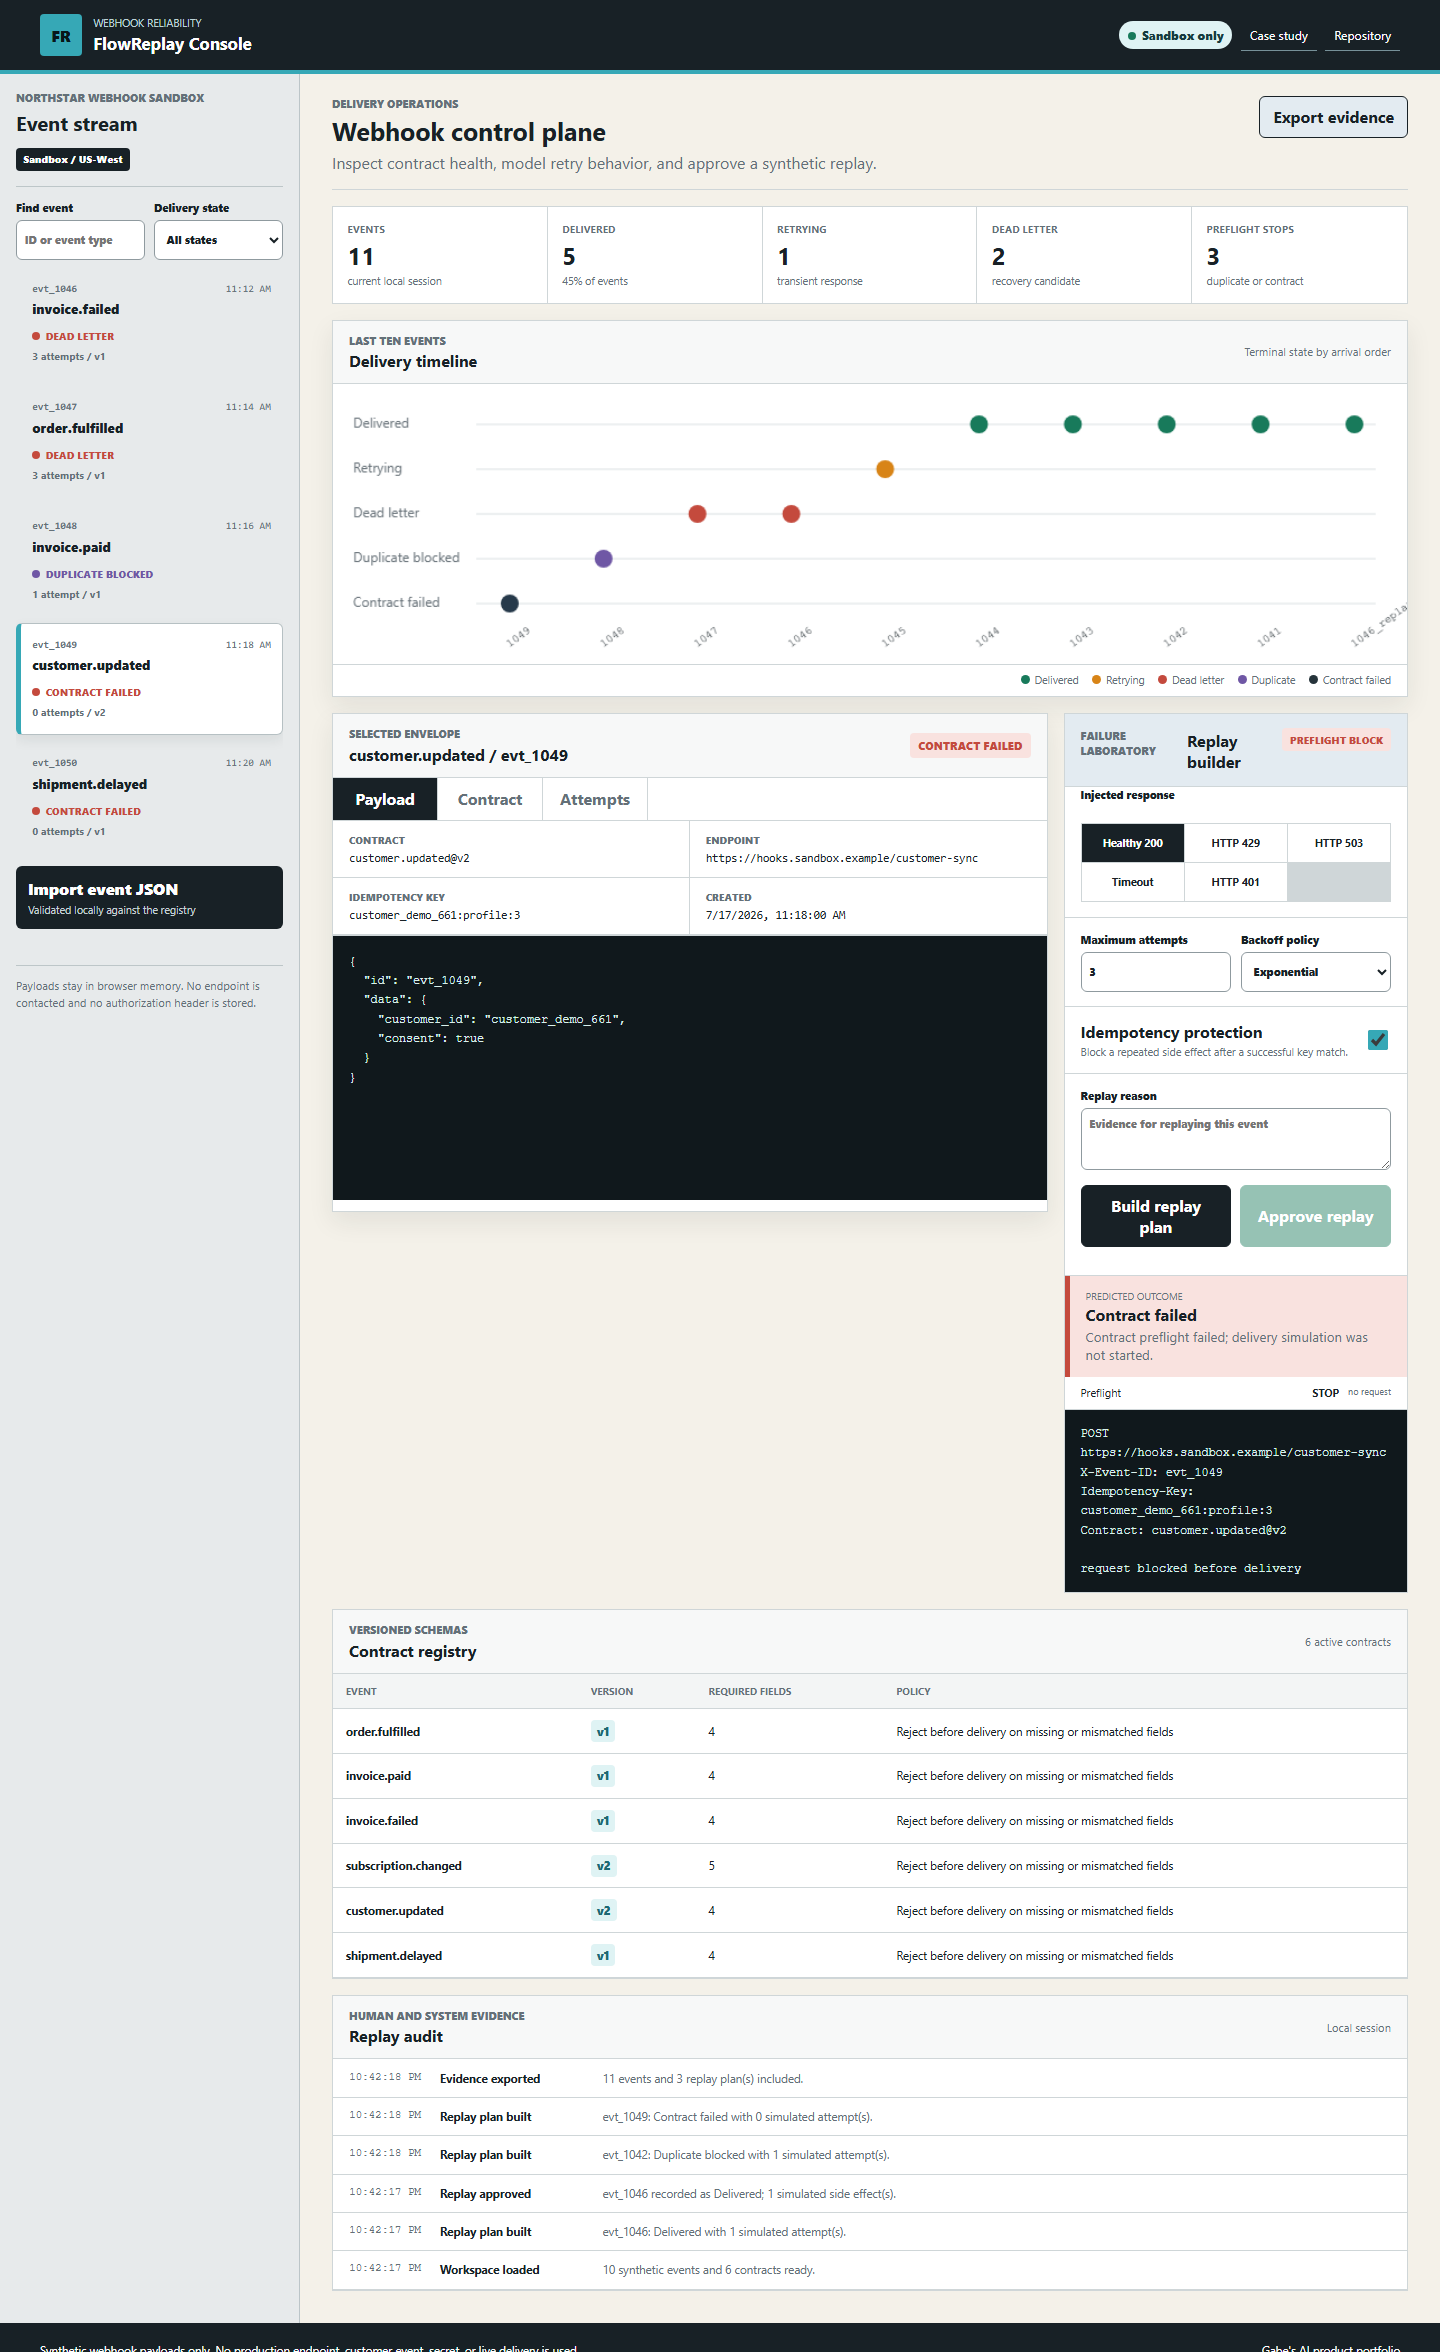
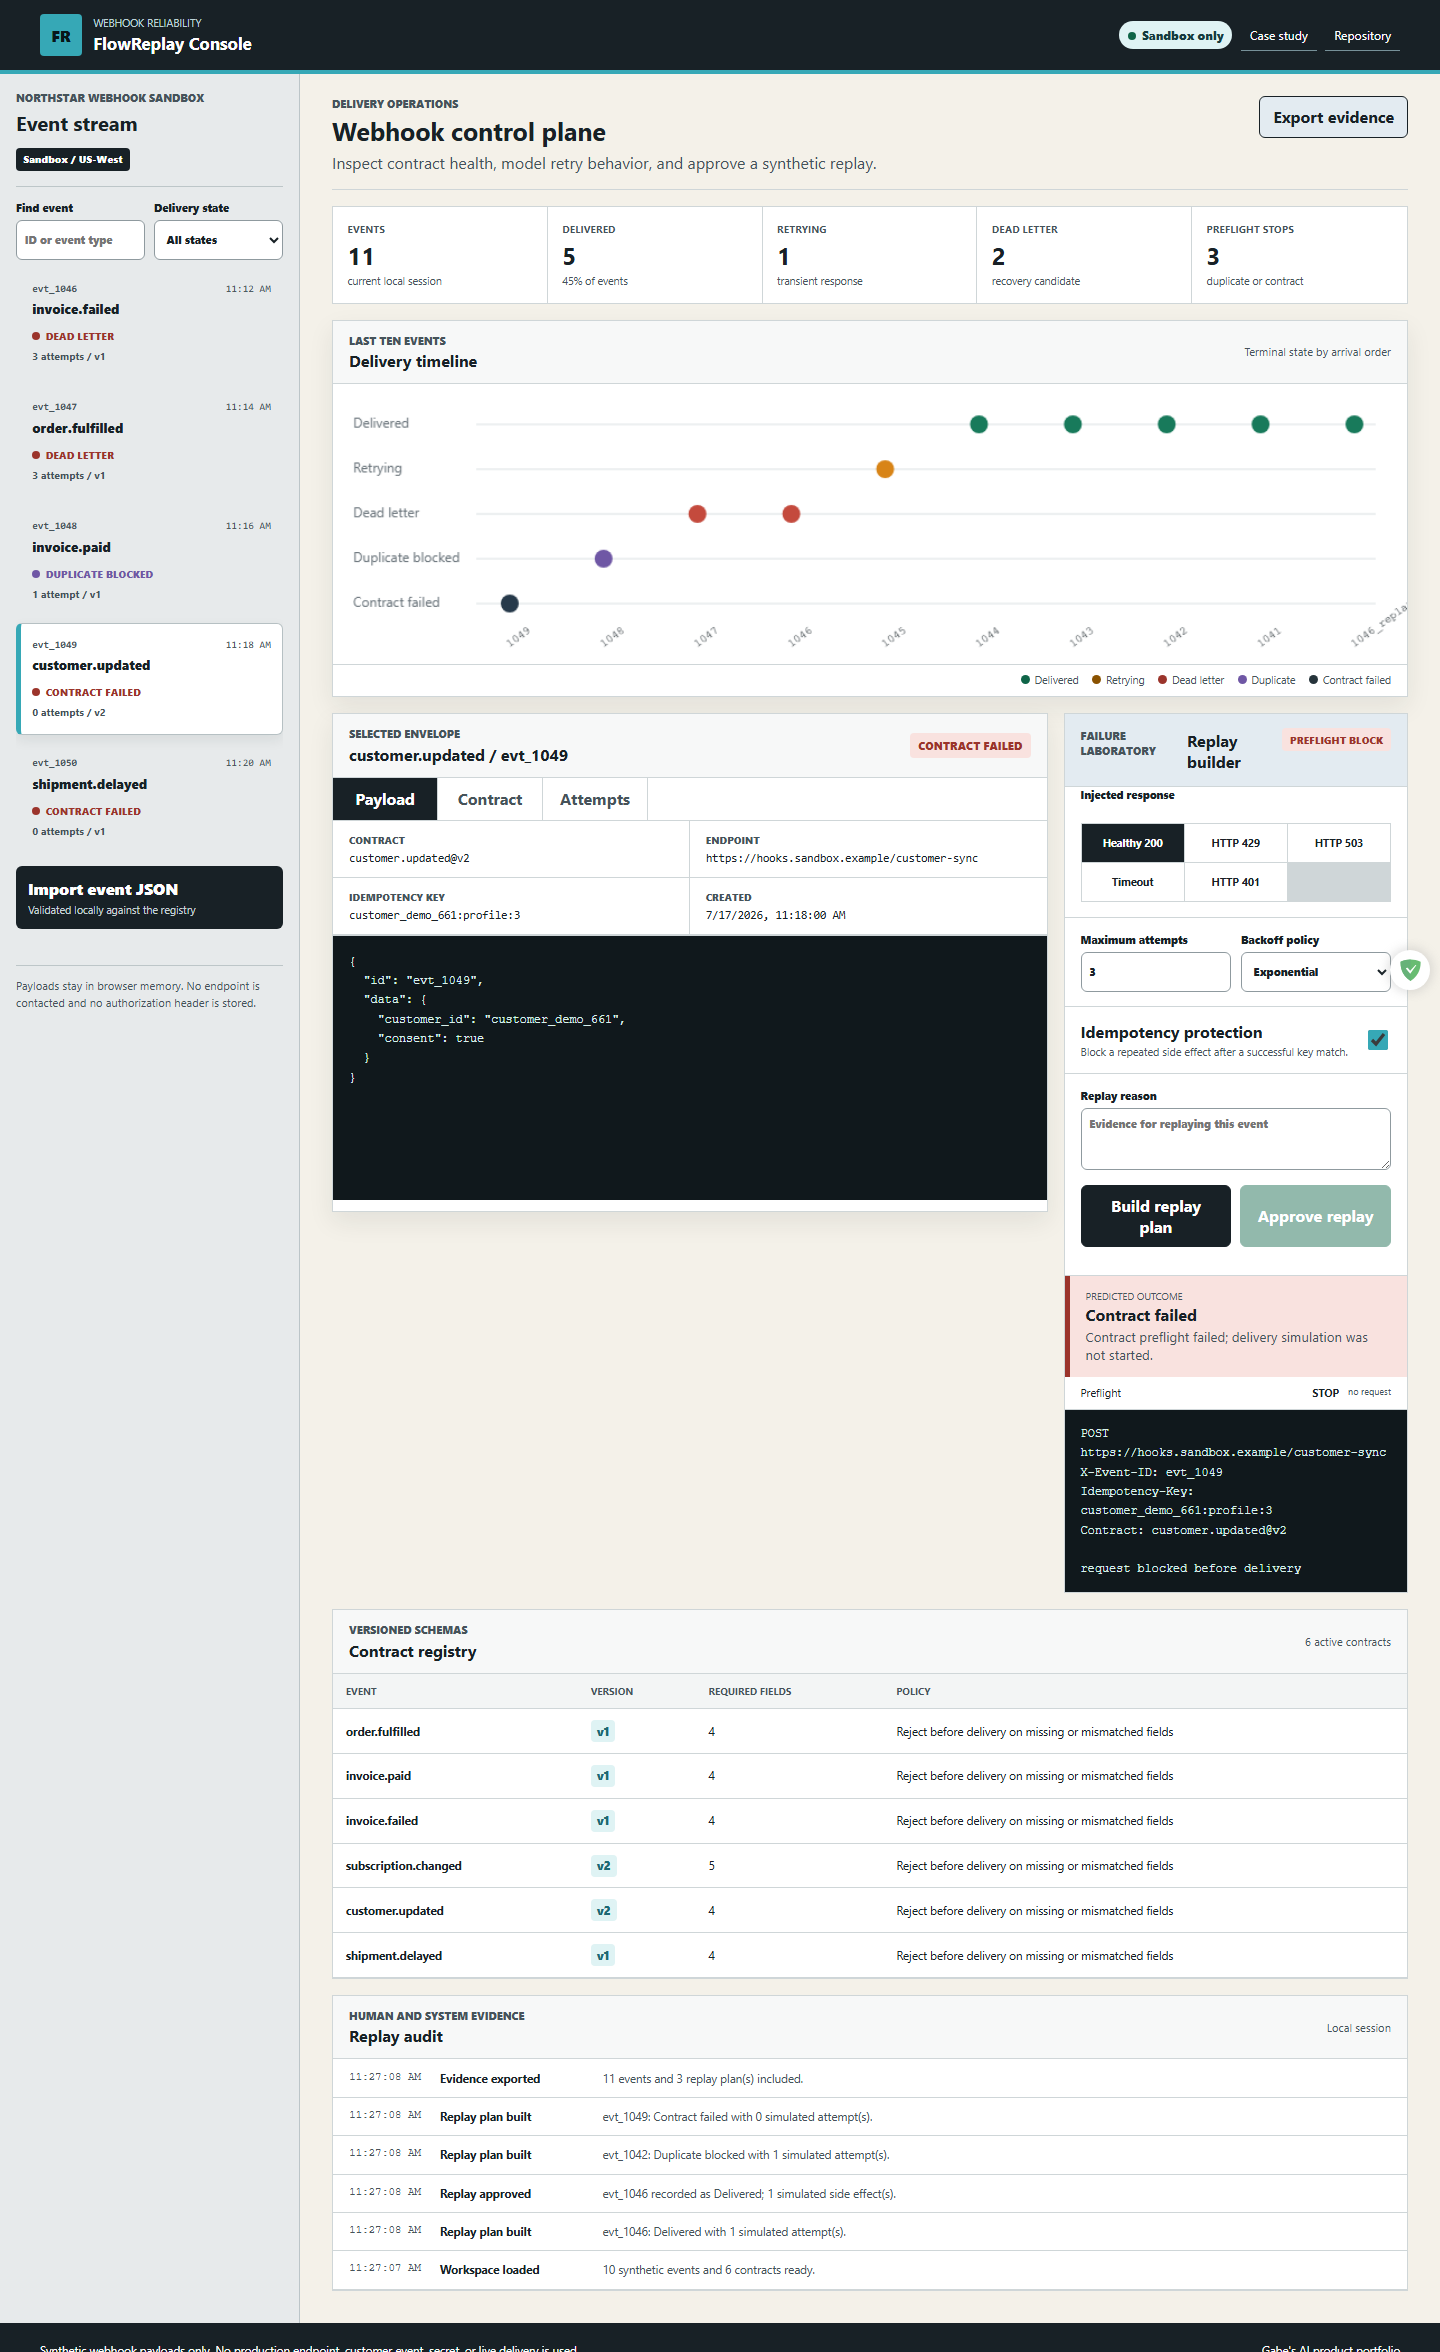
fix: improve replay workbench accessibility

Changed region(s): [[0.9688, 0.4035, 1.0, 0.4345], [0.75, 0.3104, 0.7812, 0.3414]]

diff --git a/assets/styles.css b/assets/styles.css
@@ -5,14 +5,14 @@
   --surface: #ffffff;
   --rail: #e7eaeb;
   --line: #cfd6d8;
-  --muted: #647078;
+  --muted: #46535a;
   --cyan: #36a8b6;
   --cyan-soft: #dff3f4;
-  --green: #187a5b;
+  --green: #0f6548;
   --green-soft: #dff1e9;
-  --amber: #d88417;
+  --amber: #8a5200;
   --amber-soft: #fff0d6;
-  --red: #c44a3d;
+  --red: #9b342b;
   --red-soft: #f9e2df;
   --violet: #6f57a5;
   --violet-soft: #eee8f8;

diff --git a/assets/app.js b/assets/app.js
@@ -99,7 +99,7 @@ function shell() {
           <div id="plan-output" class="plan-output"></div>
         </aside>
       </div>
-      <section class="registry-section" aria-labelledby="registry-heading"><div class="panel-heading"><div><p class="eyebrow">Versioned schemas</p><h3 id="registry-heading">Contract registry</h3></div><span>${Object.keys(state.contracts).length} active contracts</span></div><div id="contract-registry" class="table-wrap"></div></section>
+      <section class="registry-section" aria-labelledby="registry-heading"><div class="panel-heading"><div><p class="eyebrow">Versioned schemas</p><h3 id="registry-heading">Contract registry</h3></div><span>${Object.keys(state.contracts).length} active contracts</span></div><div id="contract-registry" class="table-wrap" tabindex="0" aria-label="Contract registry table"></div></section>
       <section class="audit-section" aria-labelledby="audit-heading"><div class="panel-heading"><div><p class="eyebrow">Human and system evidence</p><h3 id="audit-heading">Replay audit</h3></div><span>Local session</span></div><ol id="audit-list"></ol></section>
     </section>
   </div>`;

diff --git a/docs/VALIDATION.md b/docs/VALIDATION.md
@@ -36,3 +36,11 @@ Status: passed on 2026-07-17.
 ## Commit Identity
 
 All commits use `Gabe Baires <[email redacted]>`.
+
+## v1.0.1 hardening
+
+Validated locally on July 18, 2026.
+
+- Increased secondary and status contrast and added keyboard focus plus an accessible label to the contract registry.
+- Repository validator, replay-engine tests, and local browser workflow passed.
+- Local axe-core audit passed at desktop and mobile viewports with zero violations; the same audit is required against the deployed patch before release publication.

diff --git a/docs/RELEASE_NOTES.md b/docs/RELEASE_NOTES.md
@@ -1,5 +1,11 @@
 # Release Notes
 
+## v1.0.1 - Accessibility hardening
+
+- Increased contrast for secondary, success, warning, and failure text across the event and replay workbench.
+- Made the horizontally scrollable contract registry keyboard focusable and labeled.
+- Preserved retry, idempotency, contract, import/export, and human replay workflows.
+
 ## v1.0.0 - Webhook Reliability Workbench
 
 - Added ten synthetic events across five delivery states.

diff --git a/README.md b/README.md
@@ -2,7 +2,7 @@
 
 FlowReplay Console is a local-first webhook reliability workbench. It validates synthetic event envelopes against versioned contracts, models transient and permanent responses, exposes retry timing, prevents repeated side effects with idempotency keys, and keeps dead-letter replay behind a reasoned human approval.
 
-[Live demo](https://jubjub-cpu.github.io/flowreplay-console/) | [Portfolio](https://jubjub-cpu.github.io/gabe-ai-product-portfolio/) | [v1.0.0 release](https://github.com/jubjub-cpu/flowreplay-console/releases/tag/v1.0.0)
+[Live demo](https://jubjub-cpu.github.io/flowreplay-console/) | [Portfolio](https://jubjub-cpu.github.io/gabe-ai-product-portfolio/) | [v1.0.1 release](https://github.com/jubjub-cpu/flowreplay-console/releases/tag/v1.0.1)
 
 ## Business Problem
 